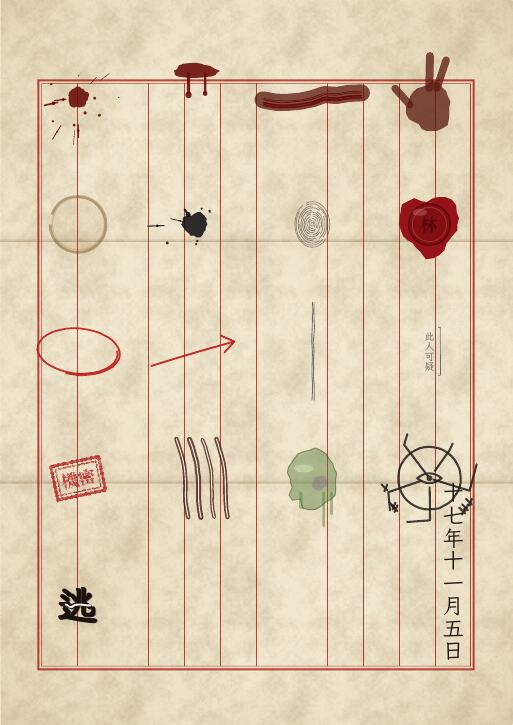
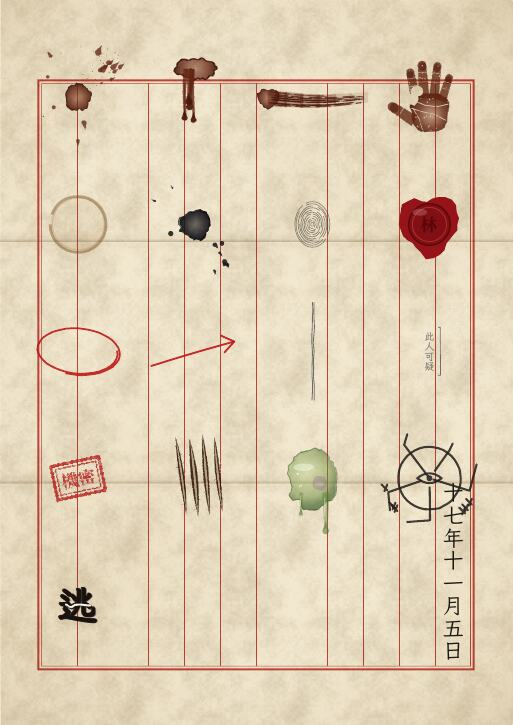
手印的掌紋與指節改成細而斷續的線；範例圖：裝飾（含特寫）、火燒、浸水、預覽與 PDF 對照、越寫越亂 60／100／寫滿整頁
Claude-Session: https://claude.ai/code/session_01QshuMHJr6dZY8xiKzFUCcX

diff --git a/src/lib/decorations.ts b/src/lib/decorations.ts
@@ -252,7 +252,7 @@ function handprint(rng: Rng, pal: BloodPalette): { prims: Primitive[]; grads: Gr
       const cy = f.y + Math.sin(a) * len * k;
       const px = -Math.sin(a) * f.w0 * 0.55;
       const py = Math.cos(a) * f.w0 * 0.55;
-      mask.push({ kind: 'path', d: `M${(cx - px).toFixed(2)} ${(cy - py).toFixed(2)}L${(cx + px).toFixed(2)} ${(cy + py).toFixed(2)}`, fill: 'none', stroke: 'black', width: range(rng, 0.25, 0.45), cap: 'round' });
+      mask.push({ kind: 'path', d: wobbly(rng, [{ x: cx - px, y: cy - py }, { x: cx - px * 0.3, y: cy - py * 0.3 + range(rng, -0.2, 0.2) }, { x: cx + px, y: cy + py }], 0.08), fill: 'none', stroke: 'black', width: range(rng, 0.14, 0.26), cap: 'round', dash: `${range(rng, 0.8, 2).toFixed(2)} ${range(rng, 0.2, 0.6).toFixed(2)}` });
     }
   });
   // 掌紋：感情線、智慧線、生命線
@@ -261,7 +261,7 @@ function handprint(rng: Rng, pal: BloodPalette): { prims: Primitive[]; grads: Gr
     [{ x: -7.4, y: 4.2 }, { x: -3, y: 5.6 }, { x: 2, y: 6.8 }, { x: 6.5, y: 9 }],
     [{ x: -6.8, y: 4.4 }, { x: -4.4, y: 8.5 }, { x: -3.2, y: 12 }, { x: -2.6, y: 13.6 }],
   ];
-  for (const l of lines) mask.push({ kind: 'path', d: wobbly(rng, l, 0.18), fill: 'none', stroke: 'black', width: range(rng, 0.35, 0.6), cap: 'round' });
+  for (const l of lines) mask.push({ kind: 'path', d: wobbly(rng, l, 0.22), fill: 'none', stroke: 'black', width: range(rng, 0.18, 0.34), cap: 'round', dash: `${range(rng, 2, 5).toFixed(2)} ${range(rng, 0.3, 1).toFixed(2)}` });
   // 按壓不均：幾塊缺失與許多細小白點
   for (let i = 0, n = int(rng, 2, 5); i < n; i++) {
     mask.push({ kind: 'path', d: poly(blobPolygon(rng, range(rng, -7, 7), range(rng, -8, 13), range(rng, 0.8, 2.6), 0.45, 14)), fill: 'black' });
